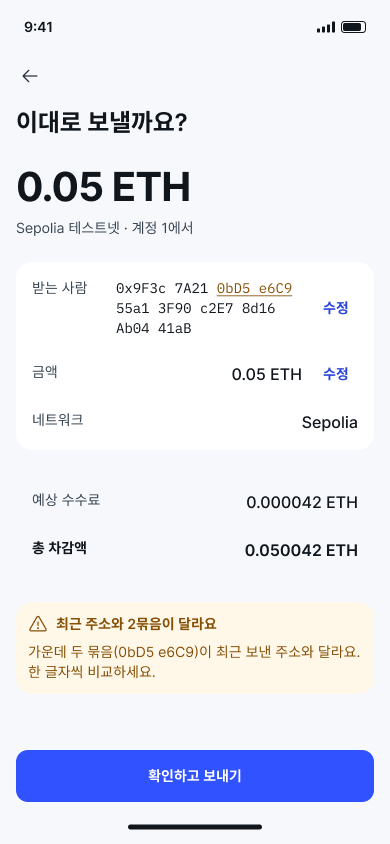
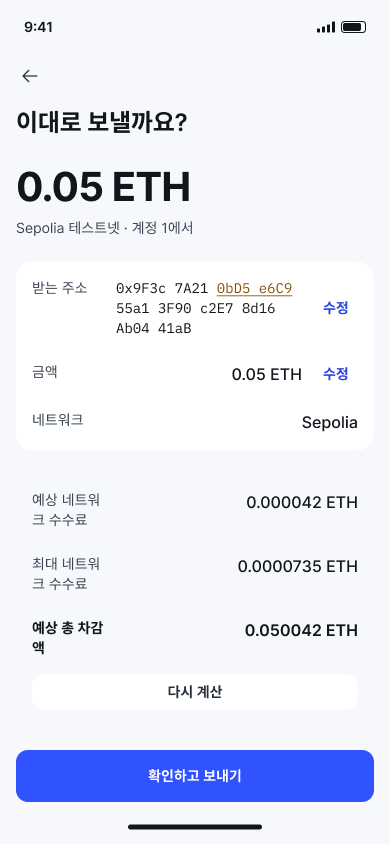
fix(mobile): review uses entered values, fee cap and recalc, 200% text, terms (#9)

diff --git a/apps/mobile/src/widgets/review-panel/ReviewPanel.tsx b/apps/mobile/src/widgets/review-panel/ReviewPanel.tsx
@@ -1,45 +1,54 @@
+import { useState } from 'react'
 import { View } from 'react-native'
 import { useTranslation } from 'react-i18next'
 import { account } from '@/entities/account/fixtures'
 import { review } from '@/entities/transaction/fixtures'
+import type { ReviewValues } from '@/entities/transaction/review'
 import { diffGroups, groupAddress } from '@/shared/lib/address'
 import { useTheme } from '@/shared/theme'
-import { Group, StatusNotice, SummaryRow, Text } from '@/shared/ui'
+import { Button, Group, StatusNotice, SummaryRow, Text } from '@/shared/ui'
 
-type Props = { risk: boolean; onEditRecipient: () => void; onEditAmount: () => void }
+const nowHHMM = () => new Date().toTimeString().slice(0, 5)
+
+type Props = { values: ReviewValues; onEditRecipient: () => void; onEditAmount: () => void }
 
 /**
  * R-S22 Review body: question, amount, the answers as flat Summary rows in one white group, fee and total, then one check notice.
- * `risk` = look-alike recipient (R-S22L): the differing 4-char chunks are marked and the notice is a warning. Fixture data, no wallet-core.
+ * `values.previous` set = look-alike recipient (R-S22L): the differing 4-char chunks are marked and the notice is a warning.
+ * Values come from the entered recipient and amount; fee and check time are fixtures. "다시 계산" re-reads the fixture and sets the check time to now.
  */
-export function ReviewPanel({ risk, onEditRecipient, onEditAmount }: Props) {
+export function ReviewPanel({ values, onEditRecipient, onEditAmount }: Props) {
   const { t } = useTranslation()
   const th = useTheme()
-  const recipient = risk ? review.lookalike : review.recipient
-  const diff = risk ? diffGroups(review.lookalike, review.recipient) : []
-  const chunks = diff.map((i) => groupAddress(review.lookalike)[i]).join(' ')
+  const { recipient, previous } = values
+  const risk = previous !== null
+  const diff = risk ? diffGroups(recipient, previous) : []
+  const chunks = diff.map((i) => groupAddress(recipient)[i]).join(' ')
+  const [checkedAt, setCheckedAt] = useState<string>(review.checkedAt)
   return (
     <>
       <View style={{ gap: th.semantic.layout.sectionGap.product }}>
         <Text variant="title" accessibilityRole="header">{t('review.title')}</Text>
         <View style={{ gap: th.semantic.layout.fieldGap }}>
-          <Text variant="amountHero">{review.amount}</Text>
+          <Text variant="amountHero">{values.amount}</Text>
           <Text variant="body" color={th.semantic.text.secondary}>{t('review.scope', { network: account.network, account: account.name })}</Text>
         </View>
       </View>
       <Group>
         <SummaryRow format="address" label={t('review.recipient')} value={recipient} highlight={diff} editLabel={t('common.edit')} onEdit={onEditRecipient} />
-        <SummaryRow label={t('review.amount')} value={review.amount} editLabel={t('common.edit')} onEdit={onEditAmount} />
+        <SummaryRow label={t('review.amount')} value={values.amount} editLabel={t('common.edit')} onEdit={onEditAmount} />
         <SummaryRow label={t('review.network')} value={account.network} />
       </Group>
       <Group surface={false}>
-        <SummaryRow label={t('review.fee')} value={review.fee} />
-        <SummaryRow format="total" label={t('review.total')} value={review.total} />
+        <SummaryRow label={t('review.fee')} value={values.fee} />
+        <SummaryRow label={t('review.feeCap')} value={values.feeCap} />
+        <SummaryRow format="total" label={t('review.total')} value={values.total} />
+        <Button label={t('review.recalc')} variant="ghost" size="sm" onPress={() => setCheckedAt(nowHHMM())} />
       </Group>
       {risk ? (
         <StatusNotice tone="warning" title={t('review.lookalike.title', { count: diff.length })} body={t('review.lookalike.body', { chunks })} />
       ) : (
-        <StatusNotice tone="info" title={t('review.checkedTitle')} body={t('review.checkedBody', { time: review.checkedAt })} />
+        <StatusNotice tone="info" title={t('review.checkedTitle')} body={t('review.checkedBody', { time: checkedAt })} />
       )}
     </>
   )

diff --git a/apps/mobile/src/pages/review/index.tsx b/apps/mobile/src/pages/review/index.tsx
@@ -2,7 +2,7 @@ import { useLocalSearchParams, useRouter } from 'expo-router'
 import { useEffect, useState } from 'react'
 import { View } from 'react-native'
 import { useTranslation } from 'react-i18next'
-import { review } from '@/entities/transaction/fixtures'
+import { resolveReview } from '@/entities/transaction/review'
 import { diffGroups, groupAddress } from '@/shared/lib/address'
 import { useTheme } from '@/shared/theme'
 import { textStyle } from '@/shared/theme/fonts'
@@ -12,19 +12,19 @@ import { ReviewPanel } from '@/widgets/review-panel/ReviewPanel'
 const SHOWN_GROUPS = 4 // sheet compares only the leading chunks, then "…"
 
 /** Info notice body of the address-check sheet: previous vs current address, only differing chunks marked. */
-function Compare() {
+function Compare({ current, previous }: { current: string; previous: string }) {
   const { t } = useTranslation()
   const th = useTheme()
   const fg = th.component.statusNotice.info.fg
-  const diff = diffGroups(review.lookalike, review.recipient)
+  const diff = diffGroups(current, previous)
   const mark = { ...textStyle({ ...th.semantic.typography.label }), color: th.semantic.status.danger.fg, textDecorationLine: 'underline' as const }
   const cut = (a: string) => groupAddress(a).slice(0, SHOWN_GROUPS)
   return (
     <View>
-      <Text variant="body" color={fg}>{`${t('review.lookalike.previous')}   ${cut(review.recipient).join(' ')} …`}</Text>
+      <Text variant="body" color={fg}>{`${t('review.lookalike.previous')}   ${cut(previous).join(' ')} …`}</Text>
       <Text variant="body" color={fg}>
         {`${t('review.lookalike.current')}   `}
-        {cut(review.lookalike).map((g, i) => (
+        {cut(current).map((g, i) => (
           <Text key={i} color={fg}>
             {i > 0 ? ' ' : ''}
             <Text style={diff.includes(i) ? mark : undefined}>{g}</Text>
@@ -41,8 +41,9 @@ export function ReviewPage() {
   const { t } = useTranslation()
   const th = useTheme()
   const router = useRouter()
-  const { risk, sheet: sheetParam } = useLocalSearchParams<{ risk?: string; sheet?: string }>()
-  const isRisk = risk === '1'
+  const { risk, sheet: sheetParam, to, amount } = useLocalSearchParams<{ risk?: string; sheet?: string; to?: string; amount?: string }>()
+  const values = resolveReview(to, amount, risk === '1')
+  const isRisk = values.previous !== null
   const [sheet, setSheet] = useState(isRisk && sheetParam === '1')
   // Same route re-opened with ?sheet=1 keeps this screen mounted, so follow the param.
   useEffect(() => {
@@ -53,7 +54,7 @@ export function ReviewPage() {
       header={<ScreenHeader backLabel={t('common.back')} onBack={() => router.back()} />}
       footer={<Button label={t('review.confirm')} onPress={() => isRisk && setSheet(true)} />}
     >
-      <ReviewPanel risk={isRisk} onEditRecipient={() => router.dismissTo('/send')} onEditAmount={() => router.back()} />
+      <ReviewPanel values={values} onEditRecipient={() => router.dismissTo('/send')} onEditAmount={() => router.back()} />
       <BottomSheet
         visible={sheet}
         onClose={() => setSheet(false)}
@@ -66,7 +67,7 @@ export function ReviewPage() {
         }
       >
         <Text color={th.semantic.text.secondary}>{t('review.lookalike.sheetBody')}</Text>
-        <StatusNotice tone="info" title={t('review.lookalike.compareTitle')} body={<Compare />} />
+        <StatusNotice tone="info" title={t('review.lookalike.compareTitle')} body={<Compare current={values.recipient} previous={values.previous ?? values.recipient} />} />
       </BottomSheet>
     </Screen>
   )

diff --git a/apps/mobile/src/shared/ui/SummaryRow.tsx b/apps/mobile/src/shared/ui/SummaryRow.tsx
@@ -1,5 +1,5 @@
 // Figma: Summary row 330:10480 (Format=Text 330:10465, Address 330:10470, Total 330:10475)
-import { Pressable, View } from 'react-native'
+import { Pressable, View, useWindowDimensions } from 'react-native'
 import { useTheme } from '../theme'
 import { AddressText } from './AddressBlock'
 import { Text } from './Text'
@@ -22,18 +22,20 @@ export function SummaryRow({ label, value, format = 'text', highlight, mono, edi
   const t = useTheme()
   const labelWidth = t.primitive.space[10] + t.primitive.space[8] // 72
   const total = format === 'total'
+  // At about 150% text and above the label sits above the value, so a long address or amount keeps the full row width.
+  const stacked = useWindowDimensions().fontScale >= 1.5
   return (
     <View
       accessible={!onEdit}
       accessibilityLabel={onEdit ? undefined : `${label}, ${value}`}
-      style={{ flexDirection: 'row', alignItems: 'flex-start', gap: t.semantic.layout.rowGap, minHeight: t.primitive.size.touch_min, paddingVertical: t.primitive.space[3] }}
+      style={{ flexDirection: stacked ? 'column' : 'row', alignItems: stacked ? 'stretch' : 'flex-start', gap: t.semantic.layout.rowGap, minHeight: t.primitive.size.touch_min, paddingVertical: t.primitive.space[3] }}
     >
-      <Text variant={total ? 'label' : 'body'} color={total ? t.semantic.text.primary : t.semantic.text.secondary} style={{ minWidth: labelWidth }}>{label}</Text>
-      <View style={{ flex: 1 }}>
+      <Text variant={total ? 'label' : 'body'} color={total ? t.semantic.text.primary : t.semantic.text.secondary} style={stacked ? undefined : { minWidth: labelWidth }}>{label}</Text>
+      <View style={stacked ? undefined : { flex: 1 }}>
         {format === 'address' ? (
           <AddressText address={value} highlight={highlight ?? []} markColor={t.semantic.status.warning.fg} />
         ) : (
-          <Text variant={total ? 'section' : mono ? 'address' : 'row'} style={{ textAlign: 'right' }}>{value}</Text>
+          <Text variant={total ? 'section' : mono ? 'address' : 'row'} style={{ textAlign: stacked ? 'left' : 'right' }}>{value}</Text>
         )}
       </View>
       {onEdit ? (
@@ -41,7 +43,7 @@ export function SummaryRow({ label, value, format = 'text', highlight, mono, edi
           accessibilityRole="button"
           accessibilityLabel={`${editLabel ?? ''} ${label}`.trim()}
           onPress={onEdit}
-          style={{ minWidth: t.primitive.size.touch_min, alignSelf: 'stretch', alignItems: 'center', justifyContent: 'center', paddingHorizontal: t.primitive.space[2] }}
+          style={{ minWidth: t.primitive.size.touch_min, minHeight: t.primitive.size.touch_min, alignSelf: stacked ? 'flex-start' : 'stretch', alignItems: 'center', justifyContent: 'center', paddingHorizontal: t.primitive.space[2] }}
         >
           <Text variant="label" color={t.semantic.text.link}>{editLabel}</Text>
         </Pressable>

diff --git a/apps/mobile/src/entities/transaction/review.ts b/apps/mobile/src/entities/transaction/review.ts
@@ -1,0 +1,48 @@
+import { fromUnits, recipientRisk, toUnits } from '@vaultme/wallet-core'
+import { diffGroups, isAddressFormat } from '../../shared/lib/address'
+import { recents, review } from './fixtures'
+
+const FEE = review.fee.replace(' ETH', '')
+
+export type ReviewValues = {
+  recipient: string
+  /** The recent address the recipient is compared with. Set only for a look-alike. */
+  previous: string | null
+  amount: string
+  fee: string
+  feeCap: string
+  total: string
+}
+
+/** Amount param from the keypad ("5." allowed) -> clean decimal string, or null when it is not a usable ETH amount. */
+function cleanAmount(raw: string | undefined): string | null {
+  const a = raw?.replace(/\.$/, '')
+  if (!a) return null
+  try {
+    return toUnits(a, 'ETH') > 0n ? a : null
+  } catch {
+    return null
+  }
+}
+
+/**
+ * Values shown on Review. Entered `to` and `amount` win; a missing or malformed param falls back to the fixture, so old deep links still work.
+ * Look-alike = wallet-core `recipientRisk` against recent addresses. `forceRisk` (?risk=1) marks the fixture look-alike.
+ * Total = amount + estimated fee (not the fee cap).
+ */
+export function resolveReview(to?: string, amount?: string, forceRisk = false): ReviewValues {
+  const entered = to && isAddressFormat(to) ? to : null
+  const recipient = entered ?? (forceRisk ? review.lookalike : review.recipient)
+  const lookalike = forceRisk || recipientRisk(recipient as `0x${string}`, recents.map((r) => r.address as `0x${string}`)) === 'lookalike'
+  // Previous = the recent address that differs from the recipient in the fewest (but not zero) 4-char groups.
+  const previous = lookalike
+    ? ([...recents.map((r) => r.address)]
+        .map((a) => ({ a, n: diffGroups(recipient, a).length }))
+        .filter((c) => c.n > 0)
+        .sort((x, y) => x.n - y.n)[0]?.a ?? review.recipient)
+    : null
+  const clean = cleanAmount(amount)
+  const shown = clean ?? review.amount.replace(' ETH', '')
+  const total = fromUnits(toUnits(shown, 'ETH') + toUnits(FEE, 'ETH'), 'ETH')
+  return { recipient, previous, amount: `${shown} ETH`, fee: review.fee, feeCap: review.feeCap, total: `${total} ETH` }
+}

diff --git a/apps/mobile/src/pages/send/amount.tsx b/apps/mobile/src/pages/send/amount.tsx
@@ -25,7 +25,7 @@ export function SendAmountPage() {
     <Screen
       topGap="group"
       header={<ScreenHeader backLabel={t('common.back')} onBack={() => router.back()} />}
-      footer={<Button label={t('send.next')} disabled={isZeroAmount(amount)} onPress={() => router.push('/review')} />}
+      footer={<Button label={t('send.next')} disabled={isZeroAmount(amount)} onPress={() => router.push({ pathname: '/review', params: { to: to ?? review.recipient, amount } })} />}
     >
       <View style={{ flex: 1, justifyContent: 'space-between', gap: th.semantic.layout.sectionGap.product }}>
         <View style={{ gap: th.semantic.layout.groupGap }}>
@@ -41,8 +41,8 @@ export function SendAmountPage() {
             <Text variant="amountHero">{amount}</Text>
             <Text variant="title" color={th.semantic.text.secondary}>ETH</Text>
           </View>
-          <View style={{ flexDirection: 'row', alignItems: 'center', gap }}>
-            <Text variant="body" color={th.semantic.text.secondary}>{`${t('send.maxSendable')} ${available} ETH`}</Text>
+          <View style={{ flexDirection: 'row', flexWrap: 'wrap', alignItems: 'center', justifyContent: 'center', gap }}>
+            <Text variant="body" style={{ textAlign: 'center' }} color={th.semantic.text.secondary}>{`${t('send.maxSendable')} ${available} ETH`}</Text>
             <Button label={t('send.max')} variant="secondary" size="sm" style={{ minWidth: th.primitive.space[10] + th.primitive.space[8] }} onPress={() => setAmount(available)} />
           </View>
         </View>

diff --git a/apps/mobile/test/review.test.ts b/apps/mobile/test/review.test.ts
@@ -1,0 +1,23 @@
+import { expect, it } from 'vitest'
+import { review } from '../src/entities/transaction/fixtures'
+import { resolveReview } from '../src/entities/transaction/review'
+
+it('falls back to the fixture when params are missing or malformed', () => {
+  const r = resolveReview()
+  expect(r).toMatchObject({ recipient: review.recipient, previous: null, amount: '0.05 ETH', total: '0.050042 ETH' })
+  expect(resolveReview('nope', 'abc').recipient).toBe(review.recipient)
+  expect(resolveReview(undefined, '0').amount).toBe('0.05 ETH')
+})
+it('carries the entered recipient and amount, total = amount + fee', () => {
+  const to = '0x4E21aB7c9D03F5e86B1a2C4d7E90F3b5a6d8c90F'
+  const r = resolveReview(to, '1.5.')
+  expect(r).toMatchObject({ recipient: to, previous: null, amount: '1.5 ETH', total: '1.500042 ETH', feeCap: '0.0000735 ETH' })
+})
+it('marks a look-alike of a recent address and names the recent one', () => {
+  const r = resolveReview(review.lookalike, '0.05')
+  expect(r.recipient).toBe(review.lookalike)
+  expect(r.previous).toBe(review.recipient)
+})
+it('?risk=1 keeps working without an entered address', () => {
+  expect(resolveReview(undefined, undefined, true)).toMatchObject({ recipient: review.lookalike, previous: review.recipient })
+})

diff --git a/packages/i18n/src/ko.ts b/packages/i18n/src/ko.ts
@@ -42,7 +42,7 @@ export const ko = {
   send: {
     title: '보내기',
     recipientQuestion: '누구에게 보낼까요?',
-    recipientLabel: '받는 사람',
+    recipientLabel: '받는 주소',
     recipientPlaceholder: '0x 주소를 입력하세요',
     recipientHelper: 'Sepolia에서 쓰는 주소를 입력하세요.',
     recipientHint: '형식이 맞아요. 받는 사람을 보증하지는 않아요.',
@@ -61,9 +61,11 @@ export const ko = {
     scope: '{{network}} 테스트넷 · {{account}}에서',
     amount: '금액',
     network: '네트워크',
-    recipient: '받는 사람',
-    fee: '예상 수수료',
-    total: '총 차감액',
+    recipient: '받는 주소',
+    fee: '예상 네트워크 수수료',
+    feeCap: '최대 네트워크 수수료',
+    recalc: '다시 계산',
+    total: '예상 총 차감액',
     checkedTitle: '확인 결과',
     checkedBody: '잔액, 수수료, 주소 형식을 {{time}}에 확인했어요. 받는 사람의 안전을 보증하지는 않아요.',
     confirm: '확인하고 보내기',

diff --git a/packages/i18n/test/ko.test.ts b/packages/i18n/test/ko.test.ts
@@ -18,5 +18,10 @@ it('has the Redesign A send and review copy', () => {
   expect(i18n.t('review.title')).toBe('이대로 보낼까요?')
   expect(i18n.t('review.scope', { network: 'Sepolia', account: '계정 1' })).toBe('Sepolia 테스트넷 · 계정 1에서')
   expect(i18n.t('review.lookalike.title', { count: 2 })).toBe('최근 주소와 2묶음이 달라요')
+  expect(i18n.t('send.recipientLabel')).toBe('받는 주소')
+  expect(i18n.t('review.recipient')).toBe('받는 주소')
+  expect(i18n.t('review.fee')).toBe('예상 네트워크 수수료')
+  expect(i18n.t('review.feeCap')).toBe('최대 네트워크 수수료')
+  expect(i18n.t('review.recalc')).toBe('다시 계산')
   expect(i18n.t('activity.today')).toBe('오늘')
 })

diff --git a/apps/mobile/src/shared/ui/Text.tsx b/apps/mobile/src/shared/ui/Text.tsx
@@ -11,5 +11,5 @@ type Props = TextProps & { variant?: TextVariant; color?: string }
 
 export function Text({ variant = 'body', color, style, ...rest }: Props) {
   const t = useTheme()
-  return <RNText maxFontSizeMultiplier={variant === 'amountHero' ? 1.2 : 1.5} {...rest} style={[textStyle(variant === 'display' ? t.primitive.type.display.mobile : t.semantic.typography[variant]), { color: color ?? t.semantic.text.primary }, style]} />
+  return <RNText {...rest} style={[textStyle(variant === 'display' ? t.primitive.type.display.mobile : t.semantic.typography[variant]), { color: color ?? t.semantic.text.primary }, style]} />
 }

diff --git a/apps/mobile/src/entities/transaction/fixtures.ts b/apps/mobile/src/entities/transaction/fixtures.ts
@@ -13,6 +13,8 @@ export const transactions: Tx[] = [
 export const review = {
   amount: '0.05 ETH',
   fee: '0.000042 ETH',
+  // wallet-core fee model: gasLimit 21000 x (2 x base 1.5 gwei + tip 0.5 gwei) = 21000 x 3.5 gwei
+  feeCap: '0.0000735 ETH',
   total: '0.050042 ETH',
   checkedAt: '09:41',
   recipient: '0x9F3c7A210bD4e6C855a13F90c2E78d16Ab0441aB',
